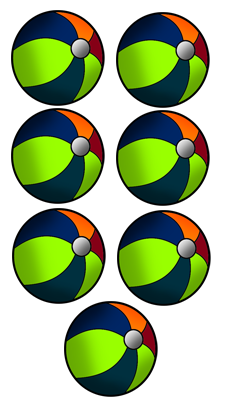
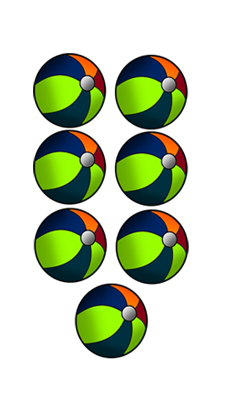
Merge

diff --git a/ToMaT/content/Jogo.qml b/ToMaT/content/Jogo.qml
@@ -27,7 +27,7 @@ Item {
     property var tries;
     property var nextActivity ;
     property var actualActivity ;
-     property var folder ;
+    property var folder ;
 
     Rectangle {
         id: telaLetras
@@ -194,9 +194,12 @@ Item {
                     source: image_source
                     fillMode: Image.PreserveAspectFit
                     anchors.fill: parent
-                    //anchors.leftMargin: 200
-                    anchors.topMargin: 30
-                    anchors.bottomMargin:  30
+                    anchors.topMargin: topMargin
+                    anchors.leftMargin: leftMargin
+                    anchors.bottomMargin:  bottomMargin
+                    anchors.rightMargin:  rightMargin
+
+
                 }
             }
 
@@ -390,16 +393,13 @@ Item {
          }while ((positionResult===positionWrong1) | (positionResult===positionWrong3) | (positionResult===positionWrong2) | (positionWrong1===positionWrong2) |(positionWrong1===positionWrong3) | (positionWrong3===positionWrong2))
 
 
+
         imageModel.set(positionResult-1,{ "image_source":folder+result+".png", "value":result, "rect_color":"transparent"})
         imageModel.set(positionWrong1-1,{ "image_source":folder+wrong1+".png", "value":wrong1, "rect_color":"transparent"})
         imageModel.set(positionWrong2-1,{ "image_source":folder+wrong2+".png", "value":wrong2, "rect_color":"transparent"})
         imageModel.set(positionWrong3-1,{ "image_source":folder+wrong3+".png", "value":wrong3, "rect_color":"transparent"})
 
 
-         //p1.source=imageModel.get(0).source
-         //p2.source=imageModel.get(1).source
-         //p3.source=imageModel.get(2).source
-         //p4.source=imageModel.get(3).source
 
     }
 

diff --git a/ToMaT/content/ImageModel.qml b/ToMaT/content/ImageModel.qml
@@ -7,14 +7,10 @@ ListModel{
         image_source:""
         value: 0
         rect_color:"transparent"
-
-
-    }
-    ListElement {
-
-        image_source:""
-        value: 0
-        rect_color:"transparent"
+        topMargin:0
+        leftMargin:0
+        bottomMargin:30
+        rightMargin:200
 
     }
     ListElement {
@@ -22,6 +18,10 @@ ListModel{
         image_source:""
         value: 0
         rect_color:"transparent"
+        topMargin:0
+        leftMargin:200
+        bottomMargin:30
+        rightMargin:0
 
     }
     ListElement {
@@ -29,6 +29,21 @@ ListModel{
         image_source:""
         value: 0
         rect_color:"transparent"
+        topMargin:30
+        leftMargin:0
+        bottomMargin:0
+        rightMargin:200
+
+    }
+    ListElement {
+
+        image_source:""
+        value: 0
+        rect_color:"transparent"
+        topMargin:30
+        leftMargin:200
+        bottomMargin:0
+        rightMargin:0
 
     }
 }
